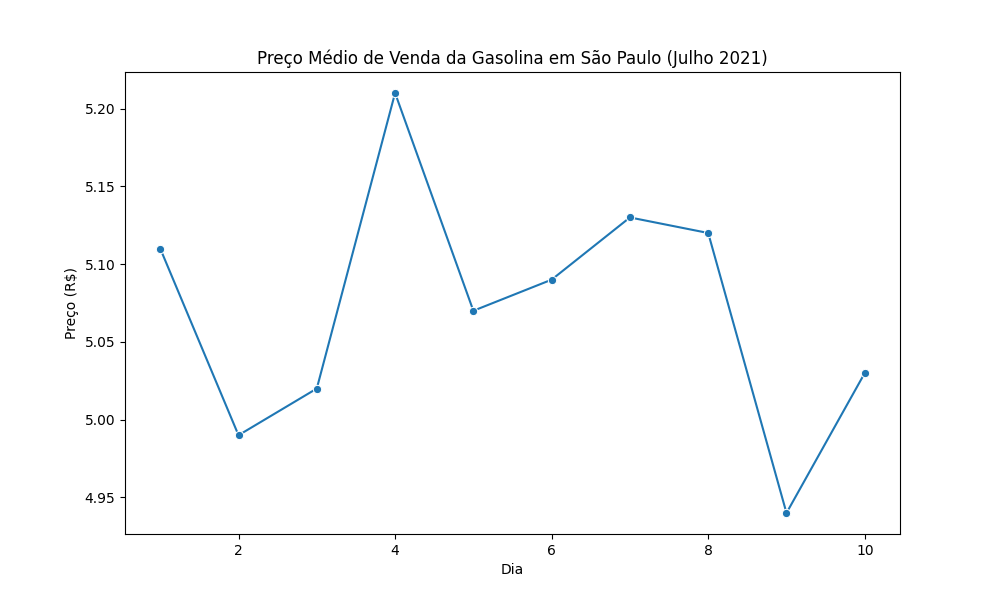
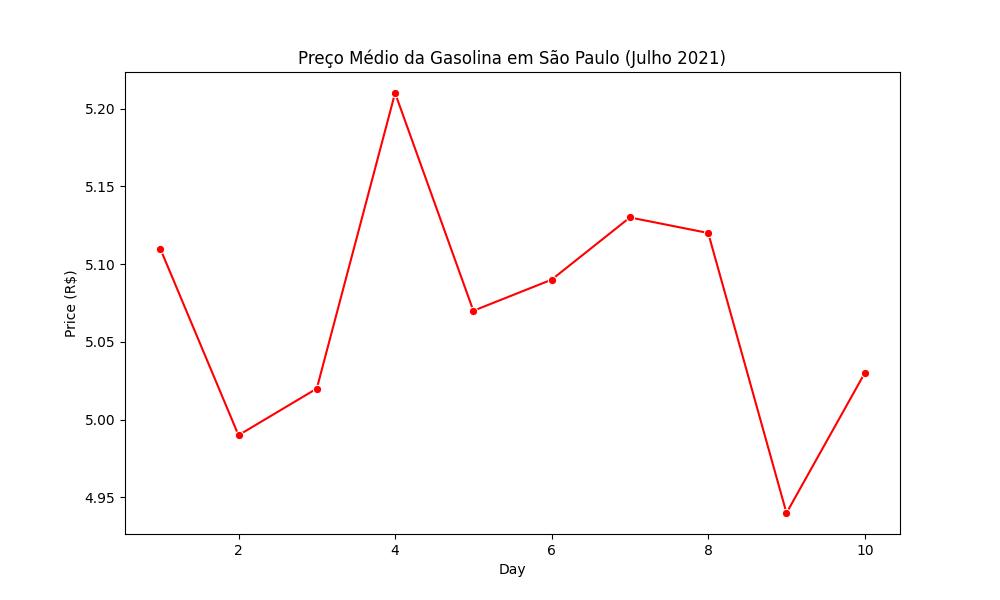
Adiciona base de dados, código Python e gráfico da gasolina

diff --git a/gasolina.py b/gasolina.py
@@ -1,3 +1,5 @@
+# código de geração do gráfico 
+
 import pandas as pd
 import seaborn as sns
 import matplotlib.pyplot as plt
@@ -5,12 +7,12 @@ import matplotlib.pyplot as plt
 # Carregar os dados do arquivo gasolina.csv
 df = pd.read_csv('gasolina.csv')
 
-# Criar o gráfico de linha
+# Criar o gráfico de linha com a cor vermelha
 plt.figure(figsize=(10, 6))
-sns.lineplot(x='dia', y='venda', data=df, marker='o')
-plt.title('Preço Médio de Venda da Gasolina em São Paulo (Julho 2021)')
-plt.xlabel('Dia')
-plt.ylabel('Preço (R$)')
+sns.lineplot(x='dia', y='venda', data=df, marker='o', color='red')
+plt.title('Preço Médio da Gasolina em São Paulo (Julho 2021)')
+plt.xlabel('Day')
+plt.ylabel('Price (R$)')
 
 # Salvar o gráfico como gasolina.png
 plt.savefig('gasolina.png')
